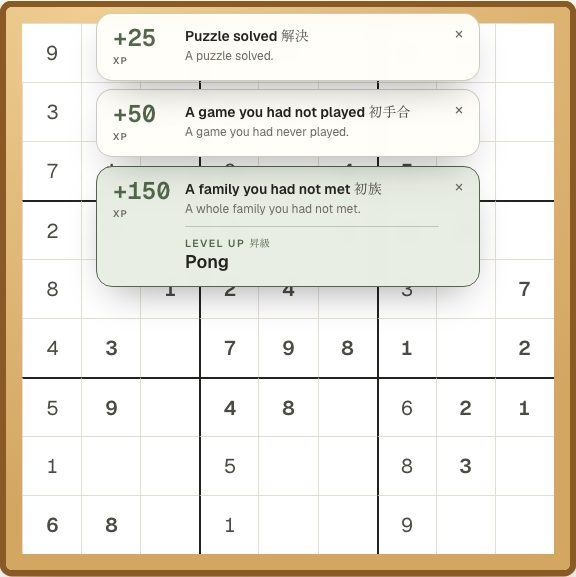
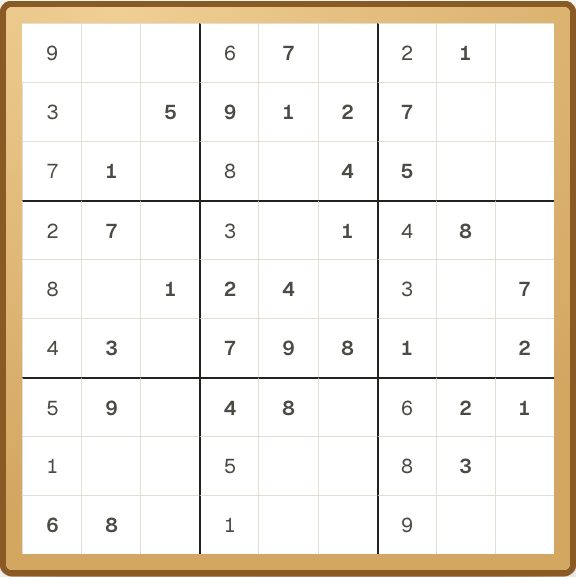
The Number Place picture no longer has XP notices over its grid
The screenshot scene hides the XP notices before it takes a picture: the operator it runs as earns XP like anybody, and the first scene of a run caught three over the grid (live since 0.305.0). Number Place re-taken; the other seven were clean.

Changed region(s): [[0.1562, 0.0, 0.8438, 0.5303]]

diff --git a/e2e/puzzle-screenshots.spec.ts b/e2e/puzzle-screenshots.spec.ts
@@ -53,6 +53,14 @@ test.describe("puzzle screenshots", () => {
       mkdirSync(OUT, { recursive: true });
       await page.goto(`/games/${PUZZLE_SLUGS[scene.kind]}/play?size=${scene.size}&level=${scene.level}&seed=${scene.seed}`);
       await ready(page, "puzzle-play");
+      /*
+       * NO XP NOTICES IN A PICTURE OF A GAME. The operator this runs as earns XP
+       * like anybody, and the first scene of a run caught three "+25 Puzzle
+       * solved" notices over the Number Place grid, shipped in 0.305.0 and seen on
+       * the puzzle's own page. The notices are hidden for the picture, whatever
+       * the operator has waiting.
+       */
+      await page.addStyleTag({ content: '[data-testid="xp-toast-host"], [data-testid="xp-toast"] { display: none !important; }' });
       const puzzle = generatePuzzle(scene.kind, scene.size, scene.level, scene.seed);
       const cells = page.getByTestId("puzzle-cell");
       let filled = 0;

diff --git a/src/lib/puzzles/puzzleArt.data.ts b/src/lib/puzzles/puzzleArt.data.ts
@@ -7,4 +7,4 @@
  *
  *   pnpm screenshots:puzzles
  */
-export const PUZZLE_ART_FINGERPRINT = "6bf5d614ea69da4c";
+export const PUZZLE_ART_FINGERPRINT = "8ceb7ff3a7f5565f";
